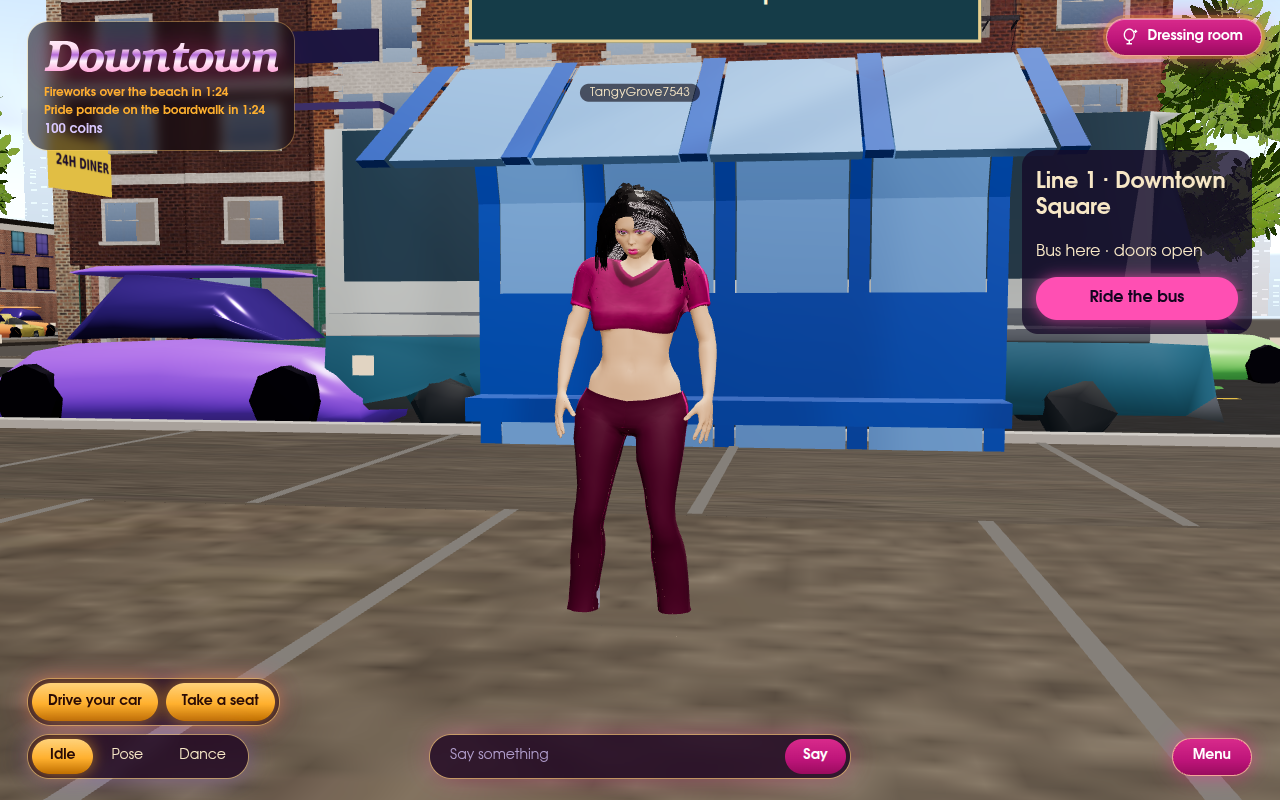
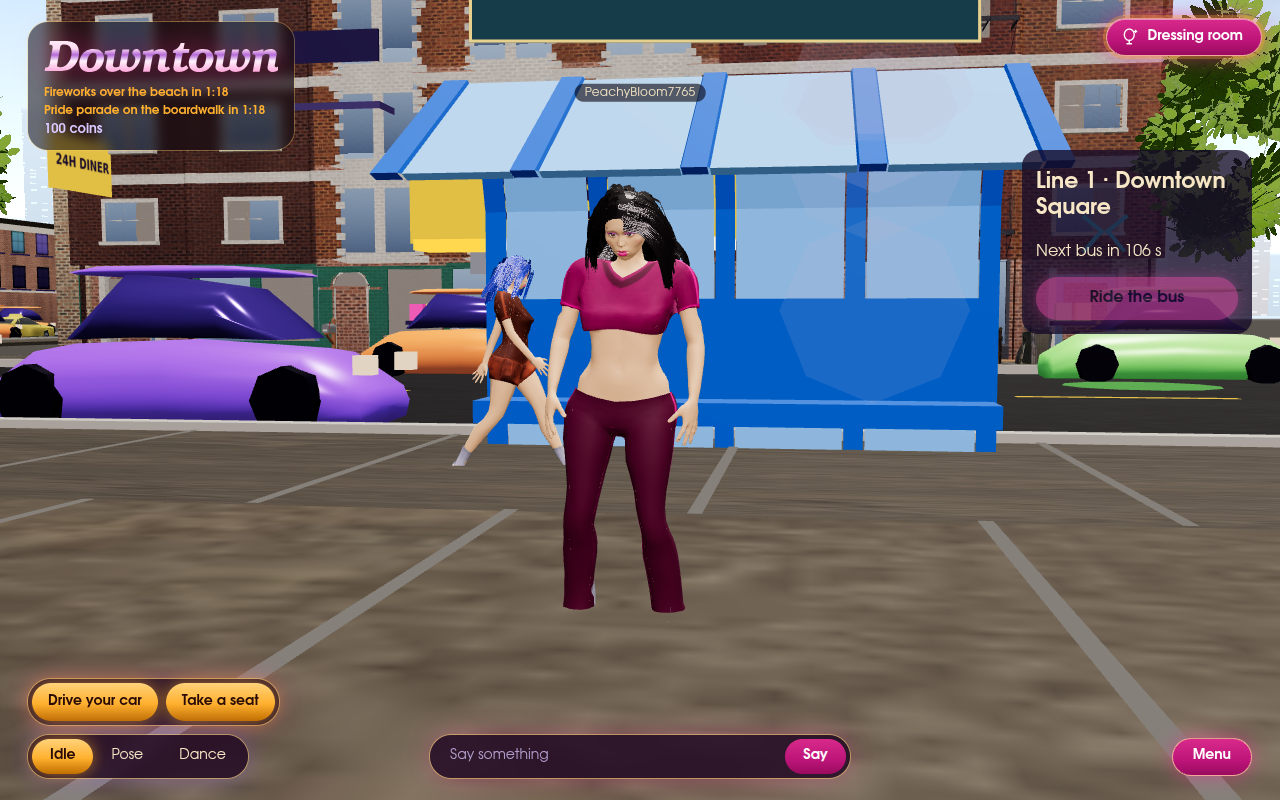
feat(city): animate riders at detailed bus shelters

Changed region(s): [[0.25, 0.0312, 0.9688, 0.7812], [0.0312, 0.4062, 0.0625, 0.4375], [0.0, 0.375, 0.0312, 0.4062]]

diff --git a/src/client/city/CityTransit.tsx b/src/client/city/CityTransit.tsx
@@ -1,12 +1,13 @@
 // Downloaded Line 1 bus and stops. The pure timetable owns motion; this scene
 // validates requests, carries the existing ride seat, and follows with a camera.
-import { Html } from "@react-three/drei";
+import { Html, useGLTF } from "@react-three/drei";
 import { useFrame } from "@react-three/fiber";
 import { useEffect, useMemo, useRef } from "react";
 import * as THREE from "three";
 import {
   BUS_STOPS,
   busAt,
+  busRiderAt,
   canBoard,
   canGetOff,
   nextBusIn,
@@ -17,6 +18,10 @@ import { driving } from "../world/driving.ts";
 import { isSceneReady } from "../world/ready.ts";
 import { useQuality } from "../world/quality.ts";
 import { playSoundFile, setLoop } from "../../audio/soundFiles.ts";
+import { Doll } from "../avatar/Doll.tsx";
+import { PEDESTRIANS } from "../../game/city/pedestrians.ts";
+import { partsOf, dimMeshes } from "./CityFurniture.tsx";
+import { useDaylight } from "./daylight.ts";
 import { busMotion, busRide } from "./busRide.ts";
 import {
   useTransitModels,
@@ -26,10 +31,82 @@ import {
   type TransitModel,
 } from "./transitModels.ts";
 
-const KINDS: readonly TransitModel[] = ["bus", "stop"];
+const KINDS: readonly TransitModel[] = ["bus"];
+const STOP_URL = "/models/street/busstop.glb";
+
+function Rider({
+  stop,
+  leaving,
+  origin,
+}: {
+  stop: number;
+  leaving: boolean;
+  origin: React.RefObject<number | null>;
+}) {
+  const group = useRef<THREE.Group>(null);
+  const pose = useMemo(() => ({ x: 0, z: 0, yaw: 0, stop: -1, next: 0 }), []);
+  const walk = useMemo(() => ({ current: { speed: 1.2 } }), []);
+  useFrame(() => {
+    if (!group.current || origin.current === null) return;
+    const visible = busRiderAt(
+      performance.now() / 1000 - origin.current,
+      stop,
+      leaving,
+      pose,
+    );
+    group.current.visible = visible;
+    if (visible) {
+      group.current.position.set(pose.x, 0, pose.z);
+      group.current.rotation.y = pose.yaw;
+    }
+  });
+  return (
+    <group ref={group} visible={false}>
+      <Doll
+        look={
+          PEDESTRIANS[(stop * 2 + Number(leaving)) % PEDESTRIANS.length].look
+        }
+        mood="idle"
+        walk={walk}
+        seed={220 + stop * 2 + Number(leaving)}
+      />
+    </group>
+  );
+}
 export function CityTransit({ player }: { player: Player }) {
   const low = useQuality() === "low";
   const { models, all } = useTransitModels(KINDS, 4);
+  const shelter = useGLTF(STOP_URL);
+  const stopMeshes = useMemo(
+    () => partsOf(shelter.scene, null, BUS_STOPS.length),
+    [shelter],
+  );
+  const { neon } = useDaylight();
+  useEffect(() => dimMeshes(stopMeshes, 1 - 0.55 * neon), [stopMeshes, neon]);
+  useEffect(() => {
+    const matrix = new THREE.Matrix4(),
+      p = new THREE.Vector3(),
+      q = new THREE.Quaternion();
+    for (const mesh of stopMeshes) {
+      BUS_STOPS.forEach((stop, i) => {
+        matrix.compose(
+          p.set(stop.at[0], 0, stop.at[1]),
+          q.setFromAxisAngle(new THREE.Vector3(0, 1, 0), stop.yaw),
+          new THREE.Vector3(1, 1, 1),
+        );
+        mesh.setMatrixAt(i, matrix);
+      });
+      mesh.count = BUS_STOPS.length;
+      mesh.instanceMatrix.needsUpdate = true;
+    }
+    return () => {
+      for (const mesh of stopMeshes) {
+        mesh.geometry.dispose();
+        (mesh.material as THREE.Material).dispose();
+        mesh.dispose();
+      }
+    };
+  }, [stopMeshes]);
   const origin = useRef<number | null>(null);
   const riding = useRef(false);
   const lastStop = useRef(0);
@@ -165,16 +242,6 @@ export function CityTransit({ player }: { player: Player }) {
       Math.hypot(pose.x - player.pos.x, pose.z - player.pos.z),
       low,
     );
-    for (const s of BUS_STOPS)
-      placeTransit(
-        models,
-        1,
-        s.at[0],
-        s.at[1],
-        s.yaw,
-        Math.hypot(s.at[0] - player.pos.x, s.at[1] - player.pos.z),
-        low,
-      );
     updateTransit(all);
     gl.domElement.dataset.busRide = riding.current ? "riding" : "on-foot";
     gl.domElement.dataset.busStop = String(pose.stop);
@@ -184,6 +251,15 @@ export function CityTransit({ player }: { player: Player }) {
   const stop = BUS_STOPS[shown.near];
   return (
     <>
+      {stopMeshes.map((mesh) => (
+        <primitive key={mesh.uuid} object={mesh} />
+      ))}
+      {BUS_STOPS.map((_, i) => (
+        <Rider key={i} stop={i} leaving={false} origin={origin} />
+      ))}
+      {BUS_STOPS.map((_, i) => (
+        <Rider key={`leave-${i}`} stop={i} leaving origin={origin} />
+      ))}
       {all.map((mesh) => (
         <primitive key={mesh.uuid} object={mesh} />
       ))}
@@ -206,3 +282,5 @@ export function CityTransit({ player }: { player: Player }) {
     </>
   );
 }
+
+useGLTF.preload(STOP_URL);

diff --git a/src/game/city/transit.ts b/src/game/city/transit.ts
@@ -121,6 +121,39 @@ export function busAt(seconds: number, out: BusPose): void {
   out.yaw = Math.atan2(a[1] - b[1], b[0] - a[0]);
 }
 
+/** A stop's position in the repeating timetable, including its dwell. */
+export function busStopPhase(seconds: number, stop: number): number {
+  const elapsed = phase(seconds) - ARRIVALS[stop];
+  return elapsed > -1e-9 ? Math.max(0, elapsed) : elapsed + BUS_CYCLE;
+}
+
+/** Two visible riders per stop: one boards, one leaves at each arrival. */
+export function busRiderAt(
+  seconds: number,
+  stop: number,
+  leaving: boolean,
+  out: BusPose,
+): boolean {
+  const t = busStopPhase(seconds, stop);
+  const s = BUS_STOPS[stop];
+  const walk = 4;
+  let progress: number;
+  if (leaving) {
+    if (t >= walk) return false;
+    progress = 1 - t / walk;
+  } else {
+    if (t < BUS_CYCLE - walk && t >= walk) return false;
+    progress = t >= BUS_CYCLE - walk ? 0 : t / walk;
+  }
+  const doorX = s.road[0] + (s.at[0] - s.road[0]) * 0.2;
+  const doorZ = s.road[1] + (s.at[1] - s.road[1]) * 0.2;
+  out.x = s.at[0] + (doorX - s.at[0]) * progress;
+  out.z = s.at[1] + (doorZ - s.at[1]) * progress;
+  out.yaw =
+    Math.atan2(doorX - s.at[0], doorZ - s.at[1]) + (leaving ? Math.PI : 0);
+  return true;
+}
+
 /** Zero while doors are open; otherwise seconds until this stop's next arrival. */
 export function nextBusIn(seconds: number, stop: number): number {
   const t = phase(seconds),

diff --git a/src/game/city/transit.test.ts b/src/game/city/transit.test.ts
@@ -6,6 +6,8 @@ import {
   BUS_DWELL,
   BUS_CYCLE,
   busAt,
+  busRiderAt,
+  busStopPhase,
   nextBusIn,
   canBoard,
   canGetOff,
@@ -87,5 +89,21 @@ test("the whole loop follows city asphalt", () => {
         (s) => s.kind === "road" && contains(s.polygon, [pose.x, pose.z]),
       ),
     );
+  }
+});
+
+test("riders wait, board and leave only at their own stop", () => {
+  const rider: BusPose = { x: 0, z: 0, yaw: 0, stop: -1, next: 0 };
+  assert.equal(busRiderAt(BUS_CYCLE - 4, 0, false, rider), true);
+  assert.deepEqual([rider.x, rider.z], BUS_STOPS[0].at);
+  assert.equal(busRiderAt(0, 0, false, rider), true);
+  assert.equal(busRiderAt(4, 0, false, rider), false);
+  assert.equal(busRiderAt(0, 0, true, rider), true);
+  assert.equal(busRiderAt(4, 0, true, rider), false);
+  for (let i = 0; i < BUS_STOPS.length; i++) {
+    const arrival = nextBusIn(0, i);
+    assert.equal(busStopPhase(arrival, i), 0);
+    assert.equal(busRiderAt(arrival, i, true, rider), true);
+    assert.equal(busRiderAt(arrival + 5, i, true, rider), false);
   }
 });
